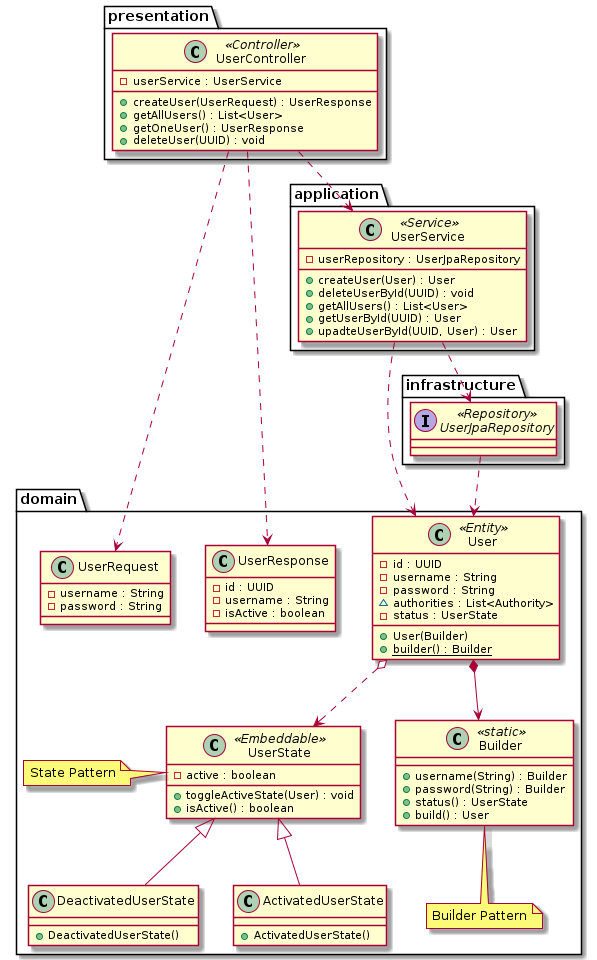
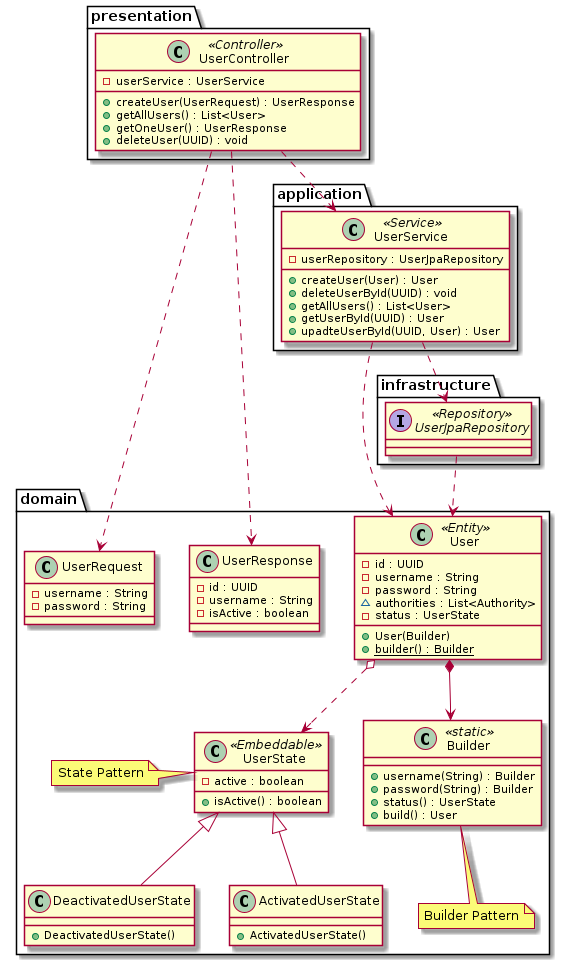
fix(user): remove toggle state method from user state

diff --git a/src/main/java/kr/ac/deu/cse/scheduler/user/domain/UserState.java b/src/main/java/kr/ac/deu/cse/scheduler/user/domain/UserState.java
@@ -5,6 +5,7 @@ import javax.persistence.Embeddable;
 
 @Embeddable
 public class UserState {
+  // TODO: improve class
 
   @Column
   private boolean active;
@@ -14,10 +15,6 @@ public class UserState {
 
   public UserState(boolean active) {
     this.active = active;
-  }
-
-  public void toggleActiveState(User user) {
-    this.active = !user.getStatus().isActive();
   }
 
   public boolean isActive() {
